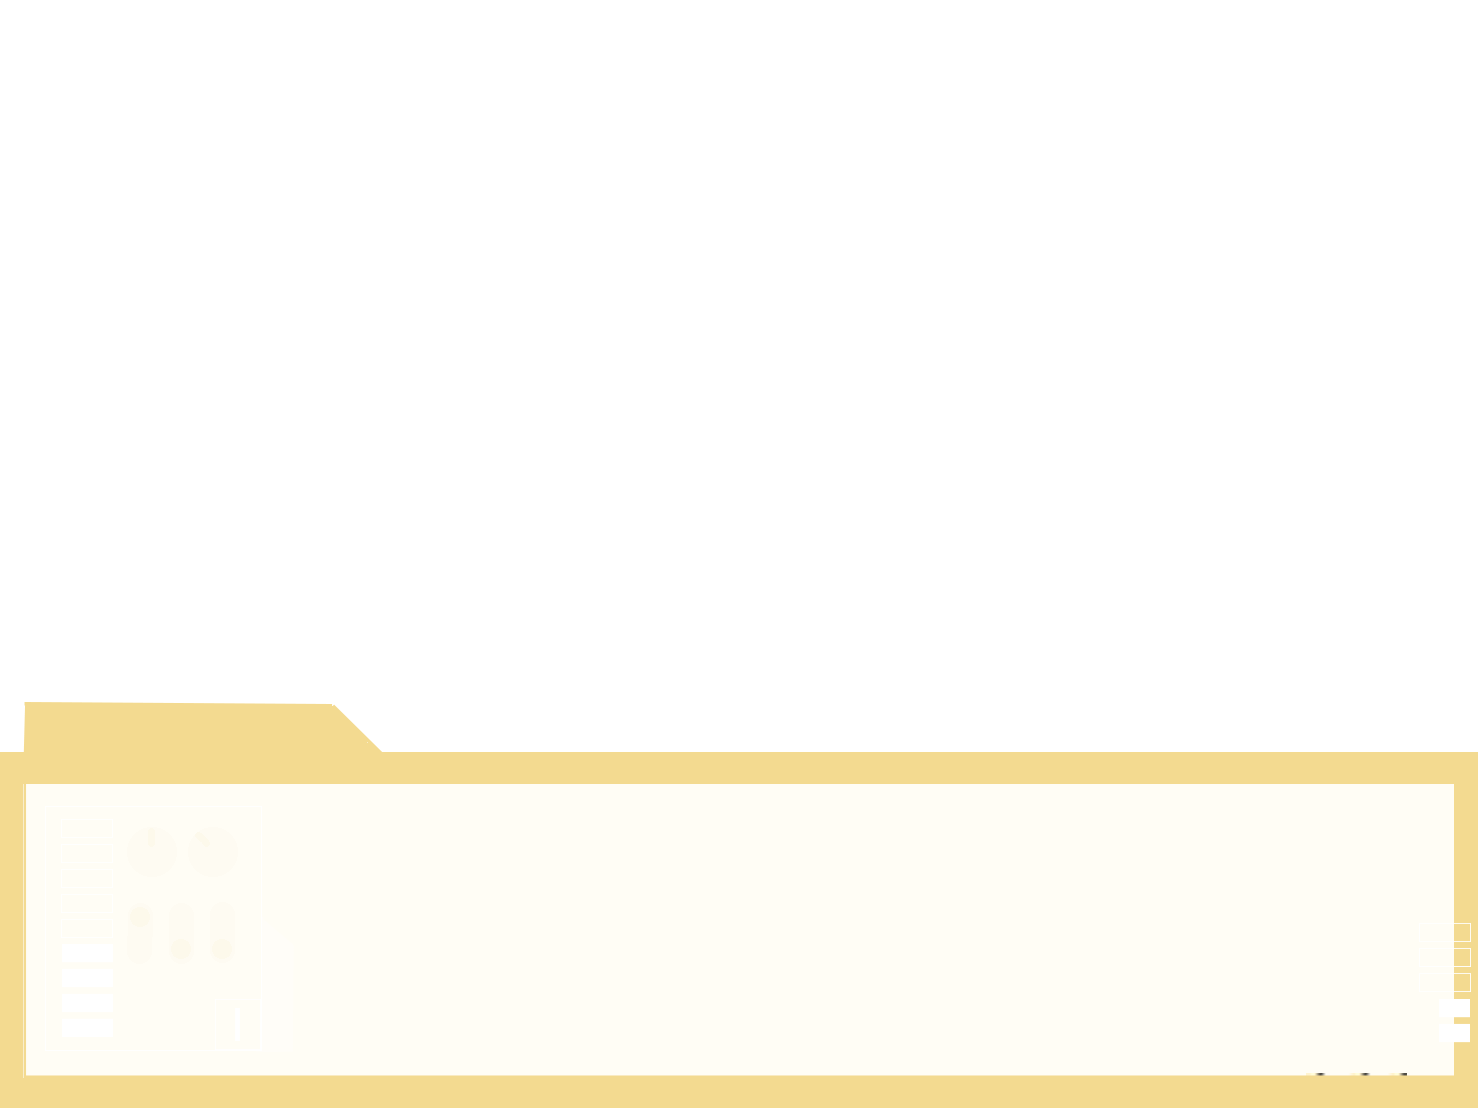
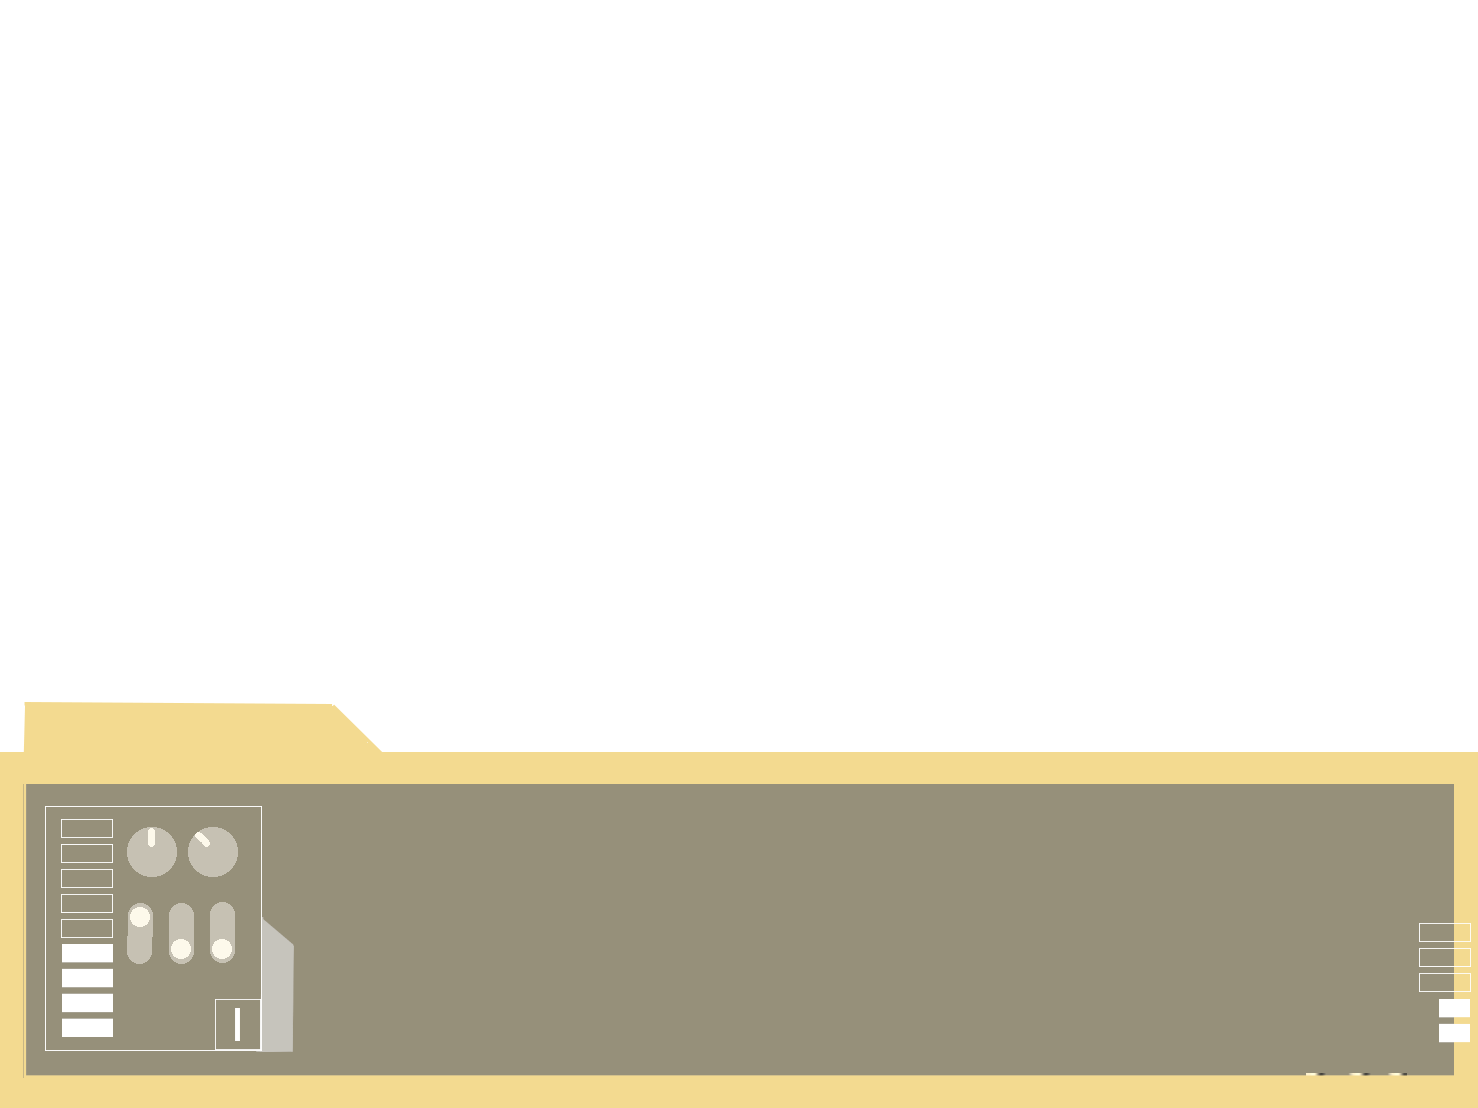
Commit
ไปก้อน

Changed region(s): [[0.0, 0.7058, 0.9959, 0.9819]]

diff --git a/EventDB.py b/EventDB.py
@@ -43,7 +43,7 @@ black=(0, 0, 0)
 gray=(50, 50, 50)
 red1=(255, 0, 0)
 green=(0, 255, 0)
-blue1=(0, 0, 255)
+blue1=(98, 197, 218)
 yellow1=(255, 255, 0)
 darkmagenta=(139,0,139)
 purple=(98,24,245)
@@ -51,6 +51,7 @@ textcolor=(62, 170, 174)
 outlinecolor=(140,104,121)
 selectcolor=(255, 170, 94)
 pink1=(255,67,164)
+orange=(252, 106, 3)
 
 # เพิ่มเฉพาะสี
 # เพิ่มคน
@@ -114,7 +115,7 @@ bad_events = {
     "Get Damaged" : "2 %s to avoid -1 %s" %(blue, man),
     "Generator Treatment" : "-1 %s %s %s to avoid -2 %s" %(red, blue, yellow, man)
 }
-bad_prob = [0.02+(0.02*ship["current"]) for _ in range(9)]
+bad_prob = [0.2 for _ in range(9)]
 all_event = [eve for eve in events] + [eve for eve in bonus_events] + [eve for eve in bad_events]
 all_prob = event_prob1 + event_prob2 + event_prob3 + bonus_prob + bad_prob
 
@@ -219,10 +220,15 @@ def choose_card(cards): #เลือกการ์ด
 
 def event(evt): #ใช้งานอีเวนต์
     """Trigger Event"""
-    if evt == "Repair" and ship["blue"][0] >= 1 and ship["yellow"][0] >= 1:
-        ship["blue"] -= 1
-        ship["yellow"] -= 1
+    if evt == "Repair" and ship["blue"][0] >= 1 and ship["yellow"][0] >= 1 and ship["hull"][0] < 10:
+        ship["blue"][0] -= 1
+        ship["yellow"][0] -= 1
         ship["hull"][0] += 1
+    elif evt == "Degenerate" and ship["man"] >= 1:
+        ship["man"] -= 1
+        ship["blue"][1] += 1
+        ship["red"][1] += 1
+        ship["yellow"][1] += 1
     elif evt == "Eat Ship" and ship["hull"][0] >= 2:
         ship["hull"][0] -= 1
         ship["blue"][1] += 1
@@ -333,7 +339,7 @@ def bad_event(evt):
         ship["hull"][0] -= 2
     elif evt == "Damaged Hull":
         ship["hull"][0] -= 2
-    elif evt == "Damaged Hull":
+    elif evt == "Leaked Hull":
         ship["hull"][0] -= 2
     elif evt == "Generator Supporting":
         ship["man"] -= 2
@@ -363,19 +369,17 @@ def ship_hud2(screen, ship): #สร้างหน้าบอก Resource
     """Make Ship pygame"""
     screen.blit(ui_1, [0, 0])
     screen.blit(text("Star %d: %s" %(ship['current']+1, starname[ship['current']]), UIfont, 64, textcolor), (64, 32))
-    screen.blit(text("HULL: "+("O"*ship['hull'][0])+"-"*(ship['hull'][1]-ship['hull'][0]), UIfont, 64, white), (256, 576))
-    screen.blit(text("%02d %s " %(ship['man'], man), UIfont, 64, green), (256, 640))
-    screen.blit(text("%d/%d %s " %(ship['red'][0], ship['red'][1], red), UIfont, 64, white), (704, 580))
-    screen.blit(text("%d/%d %s " %(ship['blue'][0], ship['blue'][1], blue), UIfont, 64, white), (704, 620))
-    screen.blit(text("%d/%d %s " %(ship['yellow'][0], ship['yellow'][1], yellow), UIfont, 64, white), (704, 660))      
+    screen.blit(text("HULL: ["+("O"*ship['hull'][0])+"_"*(ship['hull'][1]-ship['hull'][0])+"]", UIfont, 72, green), (256, 576-64))
+    screen.blit(text("%02d %s " %(ship['man'], man), UIfont, 100, blue1), (256, 640))
+    screen.blit(text("%d/%d %s " %(ship['red'][0], ship['red'][1], red), UIfont, 64, white), (704 +64, 580))
+    screen.blit(text("%d/%d %s " %(ship['blue'][0], ship['blue'][1], blue), UIfont, 64, white), (704 +64, 620))
+    screen.blit(text("%d/%d %s " %(ship['yellow'][0], ship['yellow'][1], yellow), UIfont, 64, white), (704 +64, 660))      
     pygame.display.update()
    # time.sleep(5)
 def showused(card):
     """changeName"""
     return "[used]" if card == False else card
 
-def show_events(card, used):
-    return 
 #bg_big = pygame.image.load("Images/Stars/%d.png" %).convert()
 def card(selected, cards, bg):
     """card ui"""

diff --git a/Main.py b/Main.py
@@ -175,7 +175,10 @@ def statecheck():
                 edb.bad_event(values)
                 # print('------------------------Trigger', values)
         edb.ship["current"]+= 1
-        #edb.ship["man"]-= 1
+        random_hit = random.random()
+        if random_hit <= 0.25:
+            edb.ship["hull"][0] -= 1
+        edb.ship["man"]-= 1
     if not win or edb.ship["man"] <= edb.ship["boss"]:
         play_music("Audio/lose.wav")
         bg = pygame.transform.scale(pygame.image.load("Images/lose.jpg").convert(), (1024, 768))
@@ -209,13 +212,32 @@ def statecheck():
 def howtoplay():
     """how to play"""
     # play_music("Audio/menu.wav")
-    bg = pygame.transform.scale(pygame.image.load("Images/cosette.jpg").convert(), (1024, 768))
+    howto=0
     runing = True
     while runing:
-        screen.blit(bg,(0,0))
         for event in pygame.event.get():
+            if event.type==pygame.QUIT:
+                pygame.quit()
+                quit()
             if event.type==pygame.KEYDOWN:
+                if event.key==pygame.K_ESCAPE:
                     runing = False
+                if event.key==pygame.K_RIGHT or event.key==pygame.K_d:
+                    howto+=1
+                elif event.key==pygame.K_LEFT or event.key==pygame.K_a:
+                    howto-=1
+            if howto%4 == 0:
+                bg = pygame.transform.scale(pygame.image.load("Images/howtoplay1.jpg").convert(), (1024, 768))
+                screen.blit(bg,(0,0))
+            elif howto%4 == 1:
+                bg = pygame.transform.scale(pygame.image.load("Images/howtoplay2.jpg").convert(), (1024, 768))
+                screen.blit(bg,(0,0))
+            elif howto%4 == 2:
+                bg = pygame.transform.scale(pygame.image.load("Images/howtoplay3.jpg").convert(), (1024, 768))
+                screen.blit(bg,(0,0))
+            elif howto%4 == 3:
+                bg = pygame.transform.scale(pygame.image.load("Images/howtoplay4.jpg").convert(), (1024, 768))
+                screen.blit(bg,(0,0))
         pygame.display.update()
     menu()
 
